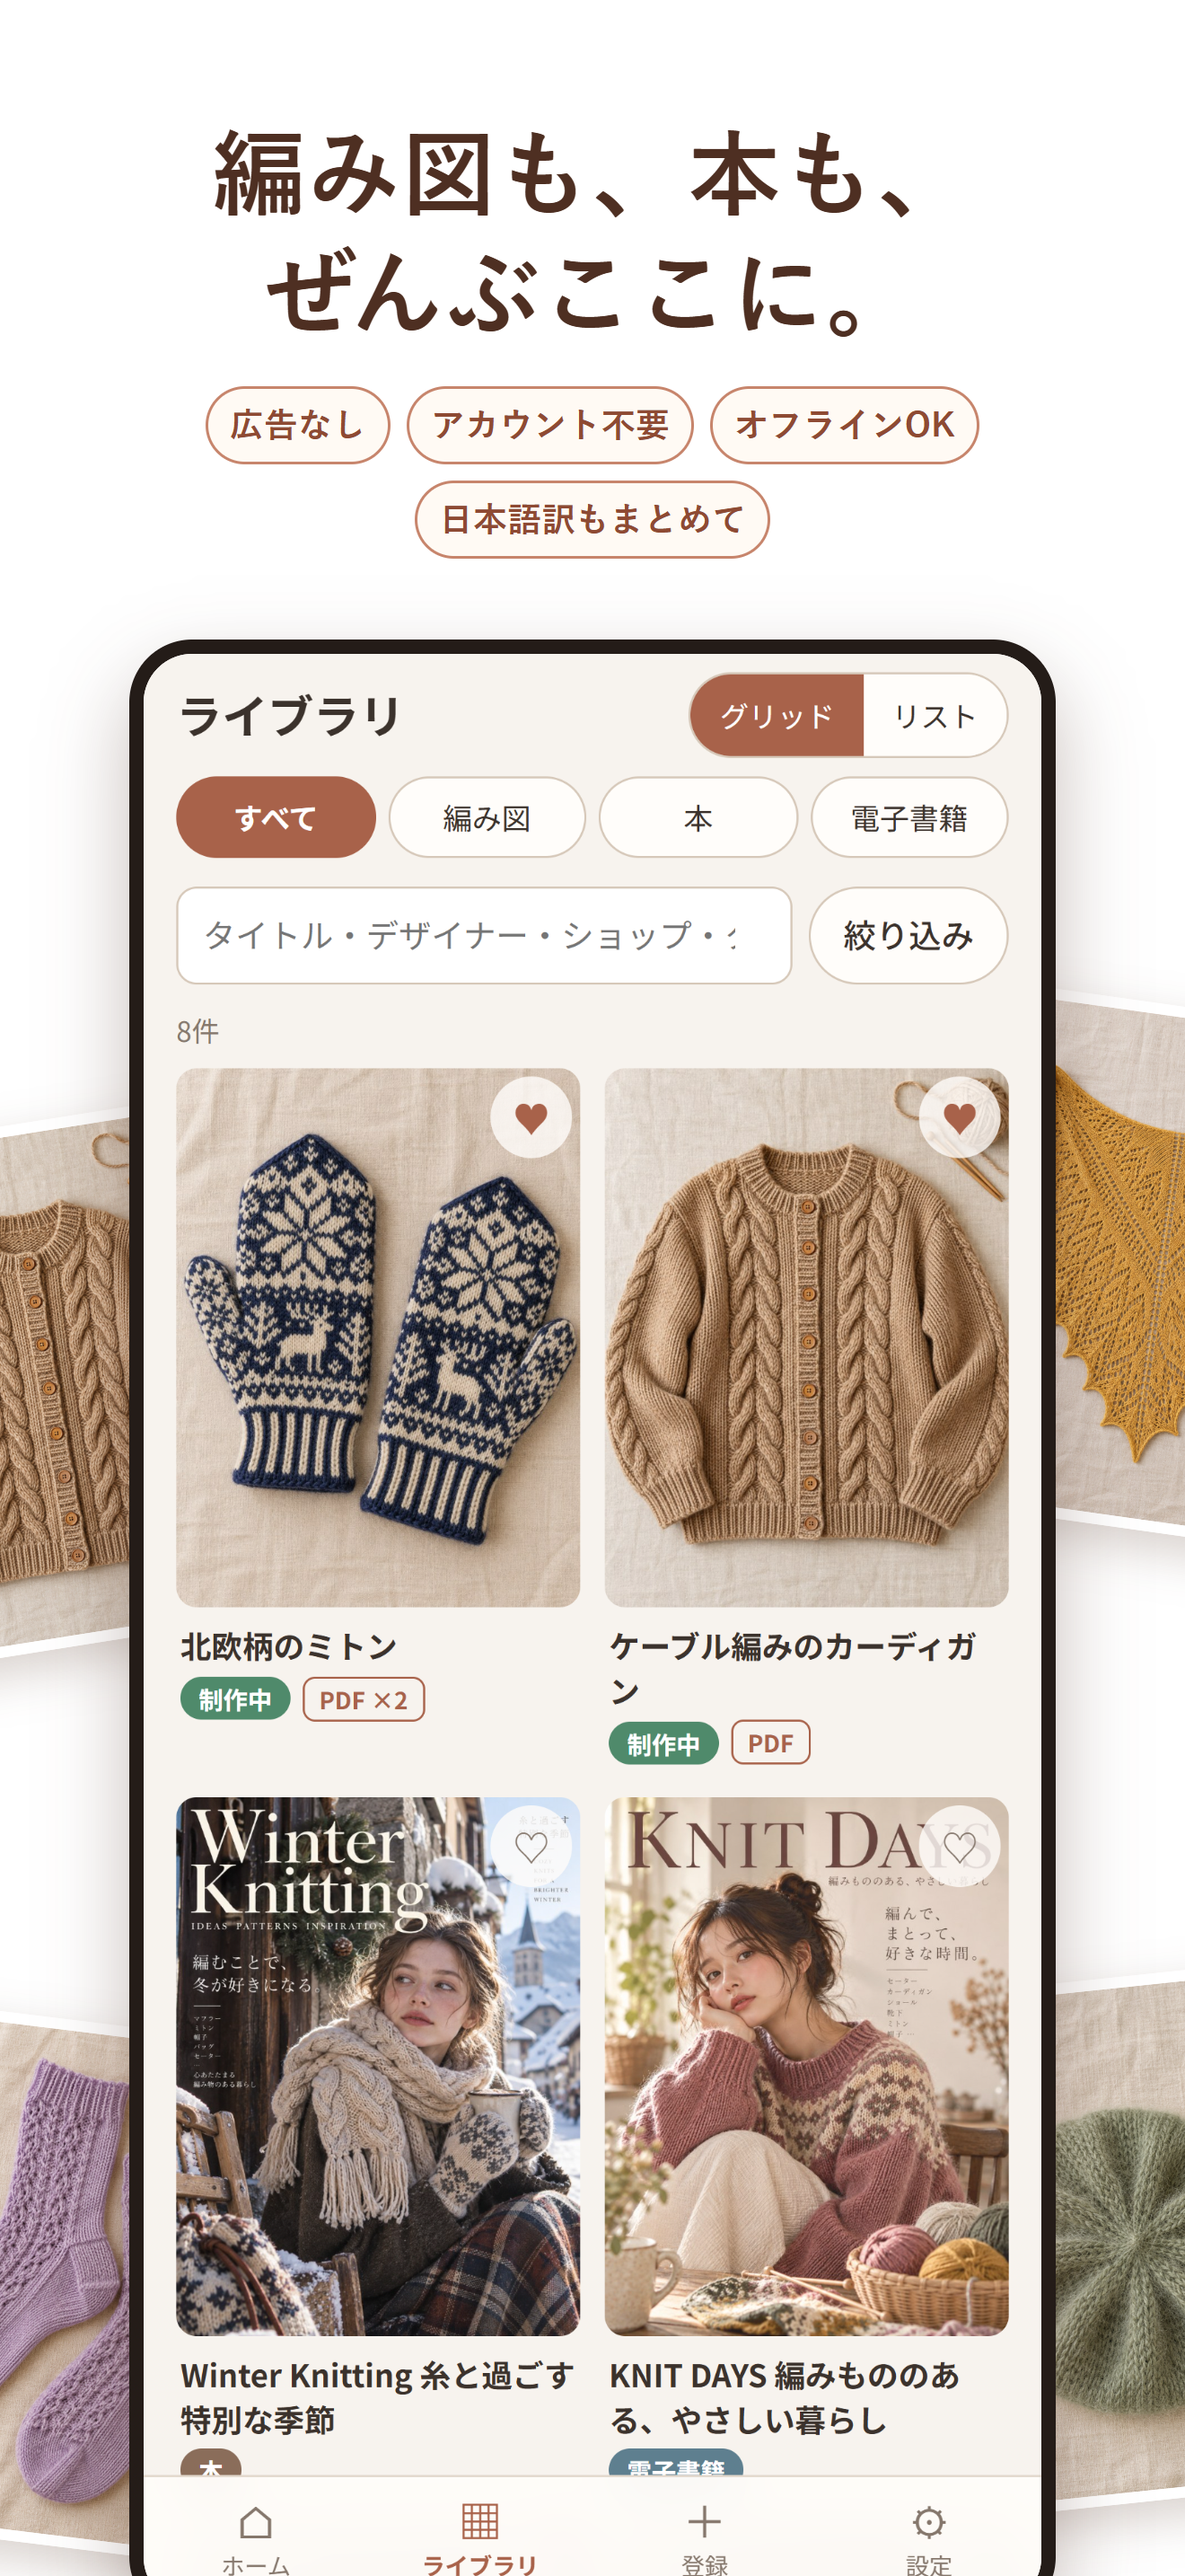
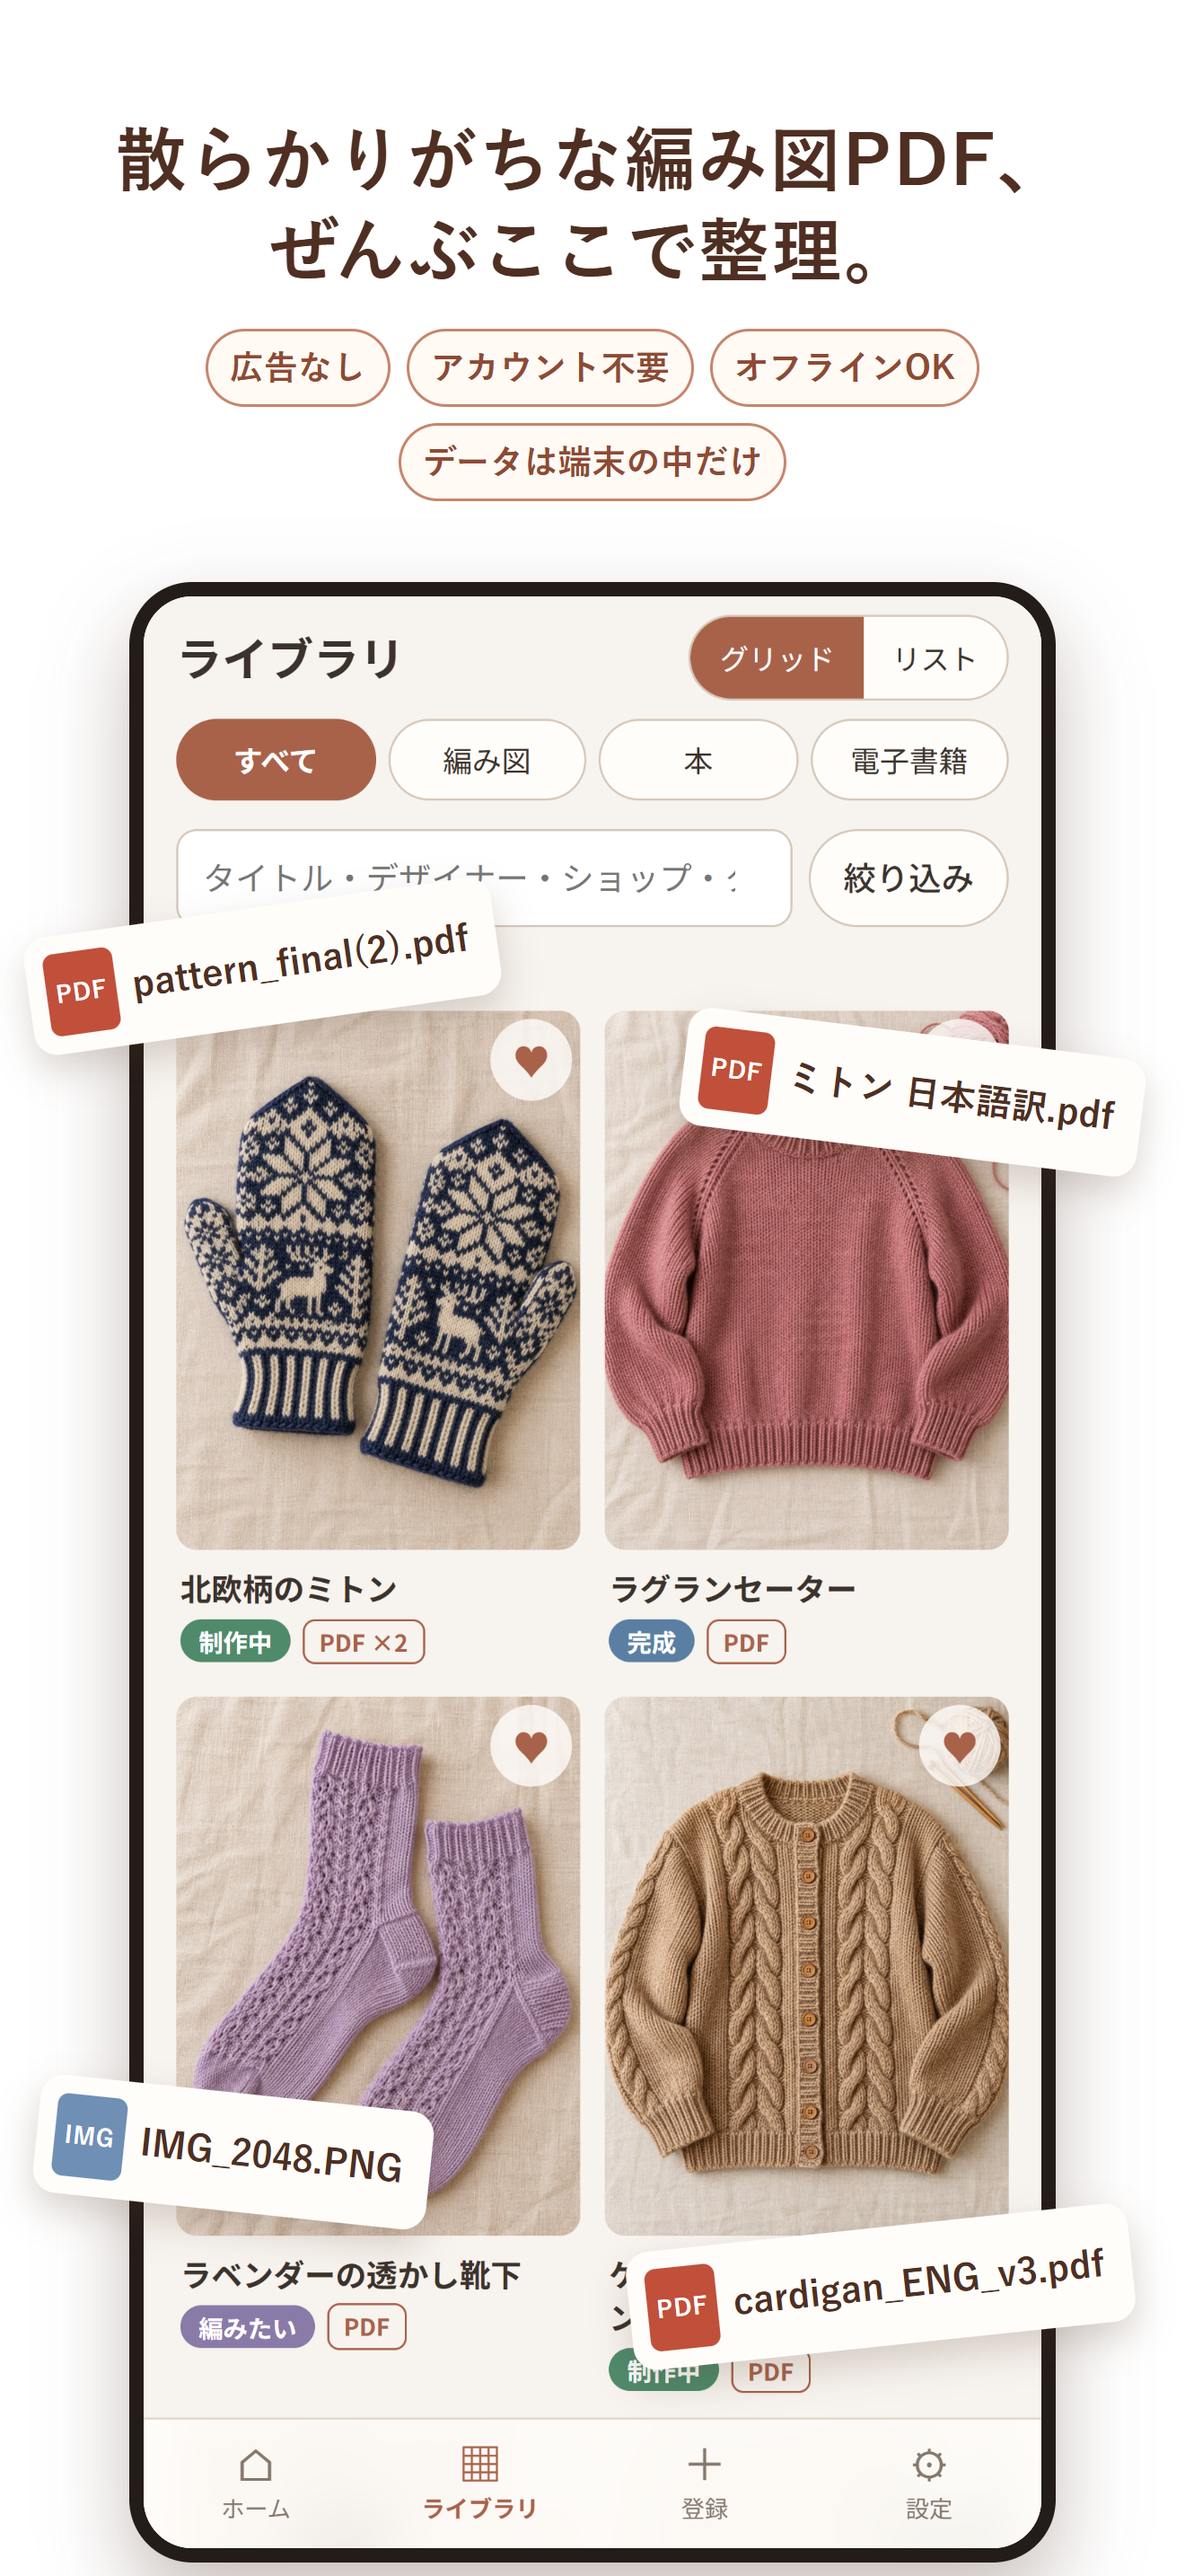
ストア用画像を作り直し：散らかるPDFの整理・まとめて登録・「これ持ってる？」を先頭に
- 1枚目：散らかりがちなファイル名のカードとライブラリ画面
- 2枚目：原本・日本語訳・チャート・修正版をまとめて登録（ファイル名で自動仕分け）
- 3枚目：本のバーコードで「持っています」と確認できる画面
- 撮影用に、開発サーバーだけで「バーコードで調べる」ボタンを表示する切り替えを追加

diff --git a/src/lib/barcode.ts b/src/lib/barcode.ts
@@ -10,7 +10,7 @@ interface BarcodeScannerPlugin {
 const BarcodeScanner = registerPlugin<BarcodeScannerPlugin>("BarcodeScanner");
 
 export function canScanBarcode(): boolean {
-  return isNativeApp();
+  return isNativeApp() || (import.meta.env.DEV && previewScan);
 }
 
 /** 読み取った番号を返す。キャンセルしたときは undefined。 */
@@ -24,4 +24,10 @@ export async function scanIsbnBarcode(): Promise<string | undefined> {
     }
     throw new UserFacingError("カメラを起動できませんでした。ISBN を手入力してください。");
   }
+}
+
+// ---- ストア用スクリーンショットの作成専用（開発サーバーでのみ動く。本番のアプリには影響しない） ----
+let previewScan = false;
+export function __previewBarcode(on: boolean) {
+  if (import.meta.env.DEV) previewScan = on;
 }
